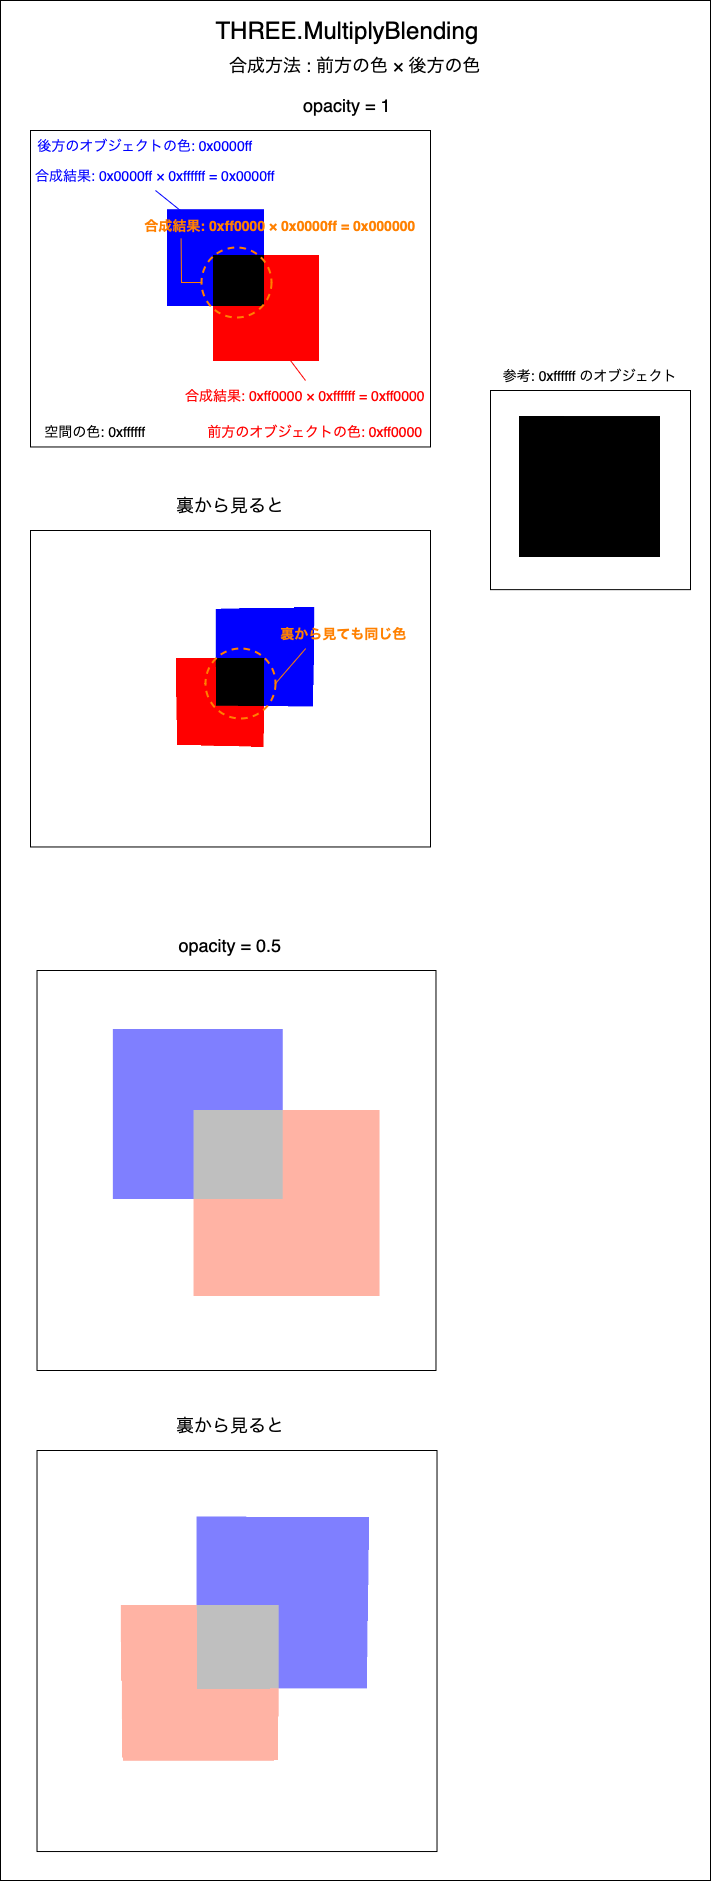
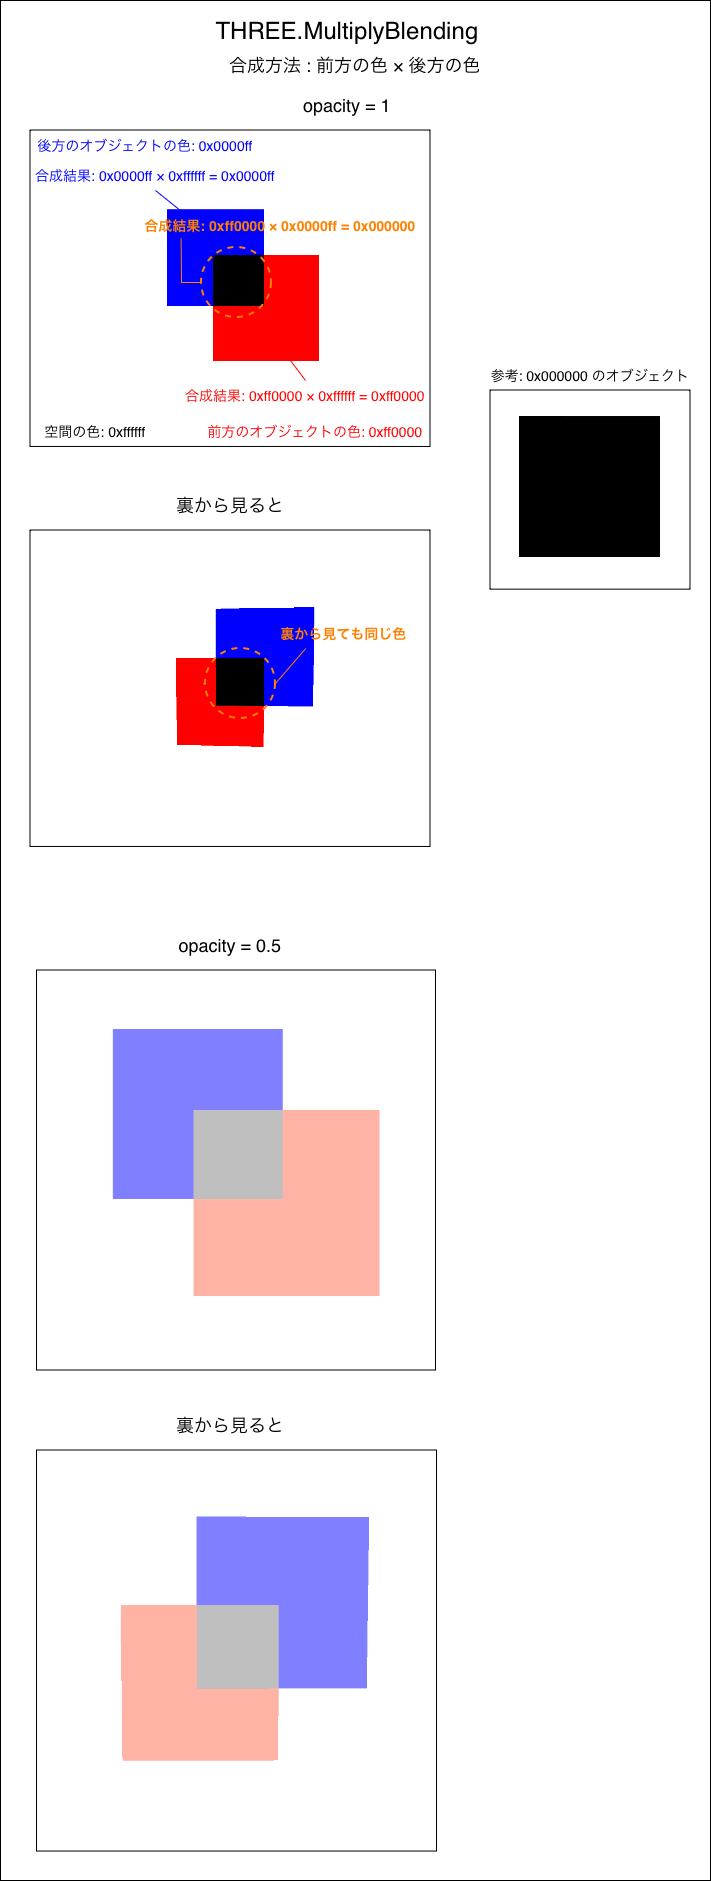
Tweak typo

diff --git a/chap2/14/Lights.md b/chap2/14/Lights.md
@@ -2,7 +2,7 @@
 
 - 3D 空間に配置する光源
 
-- PBR マテリアルなどは Light がないと見えない
+- PBR マテリアルなどは Light が無いと見えない
 
 - 様々な種類のライトが Three.js から提供されている
 
@@ -16,7 +16,7 @@
 
 - 3D空間全体に均等に光を当てるライト
 
-- 影や陰影できない
+- **影や陰影ができない**
 
 #### Ambient Light をシーンに追加する
 
@@ -223,9 +223,13 @@ directionalLight.target = target;
 
             <img src="./img/Point-Light_3.gif" />
 
-    ```js
-    const pointLight = new THREE.PointLight(0xffffff, 1, 0, 2);
-    ```
+    <br>
+
+    - サンプルライトの作成
+
+        ```js
+        const pointLight = new THREE.PointLight(0xffffff, 1, 0, 2);
+        ```
 
 <br>
 
@@ -280,9 +284,11 @@ directionalLight.target = target;
 
     <br>
 
-    ```js
-    const rectAreaLight = new THREE.RectAreaLight(0xffffff, 1, 1, 1);
-    ```
+    - サンプルライトの作成
+
+        ```js
+        const rectAreaLight = new THREE.RectAreaLight(0xffffff, 1, 1, 1);
+        ```
 
     <br>
 
@@ -435,15 +441,19 @@ RectAreaLight の向きを変える
 
         <img src="./img/Spot-Light_3.png" />
 
-    ```js
-    const spotLight = new THREE.SpotLight(
-        0x00ff00,
-        5,
-        5,
-        Math.PI * 0.1,
-        0.25,
-        1);
-    ```
+    <br>
+
+    - サンプルライトの作成
+        
+        ```js
+        const spotLight = new THREE.SpotLight(
+            0x00ff00,
+            5,
+            5,
+            Math.PI * 0.1,
+            0.25,
+            1);
+        ```
 
 <br>
 
@@ -486,7 +496,7 @@ RectAreaLight の向きを変える
 
 SpotLightHelper を使う際の注意点
 
-- SpotLightHelper インスタンスをシーンに追加以降、 spotLight の位置や向きなどを変更した場合、 SpotLightHelper インスタンスを update() で更新する必要がある
+- SpotLightHelper インスタンスをシーンに追加以降、spotLight の位置や向きなどを変更した場合、SpotLightHelper インスタンスを update() で更新する必要がある
 
     ```js
     // SpotLightHelperの更新を忘れた場合
@@ -584,7 +594,7 @@ SpotLightHelper を使う際の注意点
 
 - 基本的に Light は処理の重いオブジェクト
 
-- 処理の重さ的には、 Ambient Light などが一番軽く、 Point Light などが一番重い
+- 処理の重さ的には、Ambient Light などが一番軽く、Point Light などが一番重い
 
     Ambient Light, Hemisphere Light \< Directional Light, Point Light \< Spot Light, Rect Area Light
 

diff --git a/chap2/15/Shadows.md b/chap2/15/Shadows.md
@@ -99,7 +99,7 @@ Three.jsでは以下のライトが Drop Shadow を落とせる
 
     - [こちら](#影が落とされる仕組み--shadow-mapping)でいう手順2でレンダラーがシャドウマップを利用していることがわかる
 
-    - Rendere インスタンスのshadowMap.enabled プロパティに true を設定する
+    - Rendere インスタンスの shadowMap.enabled プロパティに true を設定する
 
     ```js
     rendere.shadowMap.enabled = true;
@@ -113,7 +113,7 @@ Three.jsでは以下のライトが Drop Shadow を落とせる
 
     <br>
 
-    - Drop Shadow を落とすオブジェクトには、 `castShadow = true` を設定する
+    - Drop Shadow を落とすオブジェクトには、`castShadow = true` を設定する
 
         ```js
         sphereObj.castShadow = true;
@@ -190,9 +190,9 @@ Three.jsでは以下のライトが Drop Shadow を落とせる
 
 - シャドウマップを作成する視点となるライトカメラを修正することで、シャドウマップの精度を上げることができる
 
-    - ライトカメラのnearがオブジェクトから遠いとシャドウマップに小さく描画される
+    - ライトカメラの near がオブジェクトから遠いとシャドウマップに小さく描画される
 
-        - シャドウマップにオブジェクトが小さく描画されると、影がテクスチャマッピングの時にチラつく = ジャぎる (理由は[こちら](../../chap1/10/Mipmap_TextureFiltering.md)を参照)
+        - シャドウマップにオブジェクトが小さく描画されると、影がテクスチャマッピングの時にチラつく = ジャぎる (理由は[こちら](https://github.com/MasaGt/threejs_journey/blob/5ceb857e86af47d63e779a05e0984879b1c680a7/chap1/10/Mipmap_TextureFiltering.md)を参照)
 
     <img src="./img/Optimizing-Shadows_3.png" />
 
@@ -294,6 +294,7 @@ Three.jsでは以下のライトが Drop Shadow を落とせる
     ```js
     // Light camera Debug
     const cameraDebug = gui.addFolder("Light Camera");
+    // Light cameraと camera helperを更新する関数
     const updateLightCamera = () => {
     directionalLight.shadow.camera.updateProjectionMatrix();
     cameraHelper.update();

diff --git a/chap2/15/SpotLigh.md b/chap2/15/SpotLigh.md
@@ -42,7 +42,7 @@
     
     以下の比較をしてみる
 
-    - SpotLightHelperを使って可視化する Spot Light の範囲
+    - SpotLightHelper を使って可視化する Spot Light の範囲
 
     - CameraHelper を使って可視化する Spot Light のライトカメラの範囲
 
@@ -55,7 +55,6 @@
     // Spot Light の可視化
     const spotLightHelper = new THREE.SpotLightHelper(spotLight, 0x00ff00);
     scene.add(spotLightHelper);
-
 
     // Spot Light のライトカメラの可視化
     const spotLightCameraHelper = new THREE.CameraHelper(spotLight.shadow.camera);
@@ -72,7 +71,7 @@
 
     - Spot Light のライトカメラの fov のデフォルトは 50°
 
-    - Spot Light の angleのデフォルトは Math.PI / 3 (= 1.047 = 120°)
+    - Spot Light の angle のデフォルトは Math.PI / 3 (= 1.047 = 120°)
 
     - ★上記ライトカメラの fov は最終的に内部(たぶんレンダラーがレンダリングする直前)で Spot Light の angle に上書かれる
         - しかし、カメラヘルパーは上書かれる前のライトカメラの fov を元にオレンジのガイド枠をシーンに描画するため、カメラヘルパーとスポットライトヘルパーで異なって見える
@@ -81,7 +80,7 @@
 
 <br>
 
-- もし、カメラヘルパーとライトヘルパーを合わせたければ SpotLight インスタンスの `shadow.updateupdateMatrices()` に SpotLightインスタンスを渡せば直る
+- もし、カメラヘルパーとライトヘルパーを合わせたければ SpotLight インスタンスの `shadow.updateupdateMatrices()` に SpotLight インスタンスを渡せば直る
 
     ```js
     // Spot Light の追加
@@ -135,8 +134,8 @@
 
 <br>
 
-- Spot Light の shadow.mapSize の　width と height が設定されている場合
-    - ライトカメラの aspect は Spot Light の shadow.mapSize の　width と height の比率に固定される
+- Spot Light の shadow.mapSize の width と height が設定されている場合
+    - ライトカメラの aspect は Spot Light の shadow.mapSize の width と height の比率に固定される
 
 <br>
 <br>

diff --git a/chap2/16/Timerを使ったアニメーション.md b/chap2/16/Timerを使ったアニメーション.md
@@ -28,12 +28,14 @@
 
 - getElapsedTIme() で Timer インスタンスの作成からの経過時間を取得することができる
 
-- getDeltaTime() で 前回読んだgetDeltaTime() からの経過時間を取得することができる
+- getDeltaTime() で前回呼び出した getDeltaTime() からの経過時間を取得することができる
 
-- ★getDeltaTime() や getDeltaTime() を実行する前に Timer.update() を自前で呼ぶ必要がある
-    - Timer.update() を呼ぶことにより、 Timer インスタンスの内部の値が更新され getElapsedTime() や getDeltaTime() の値が正しく取得できるようになる
+- ★getElapsedTIme() や getDeltaTime() を実行する前に Timer.update() を自前で呼ぶ必要がある
+
+    - Timer.update() を呼ぶことにより、Timer インスタンスの内部の値が更新され getElapsedTime() や getDeltaTime() の値が正しく取得できるようになる
 
     - もし、Timer.update() を呼ばなかったら...
+    
         - Timer インスタンスの内部の値が変更されないため、 getElapsedTime() や getDeltaTime() が同じ値を返し続ける
 
 <br>
@@ -64,7 +66,7 @@ animate();
 
 - Timer はタブが非アクティブの時に止まるらしい
 
-- 一方で　Clock はタブが非アクティブの時でも止まらないらしい
+- 一方で Clock はタブが非アクティブの時でも止まらないらしい
 
 - よって、ユーザーがアニメーションの途中でタブを非アクティブにし、しばらく経ってから戻ってきたらアニメーションがめっちゃ進んでたり、終わってたりする状況が Clock では起きる可能性がある
 
@@ -77,6 +79,7 @@ animate();
  * Animate
  */
 const clock = new THREE.Clock();
+const timer = new THREE.Timer();
 
 const tick = () => {
 

diff --git a/chap2/16/墓場の配置.md b/chap2/16/墓場の配置.md
@@ -8,7 +8,7 @@
 
 ### 同心円上に配置するには
 
-- 墓場オブジェクトのxはzのポジションをsin, 残りのポジションをcosで設定すればいい
+- 墓場オブジェクトのxのポジションをsin, 残りのポジション(z)をcosで設定すればいい
 
     ```js
     /**
@@ -20,16 +20,20 @@
     
     // 単位円上に配置
     grave.position.x = Math.sin(theta);
-    grave.position.y = Math.cos(theta);
+    grave.position.z = Math.cos(theta);
 
     //↑はこのコードでもいい
     grave.position.x = Math.cos(theta);
-    grave.position.y = Math.sin(theta);
+    grave.position.z = Math.sin(theta);
     ```
 
-<img src="./img/Sin-Cos_1.gif" />
+    <br>
 
-引用: [Sine and cosine](https://en.wikipedia.org/wiki/Sine_and_cosine)
+- 下の緑の円がオブジェクトの取りうるポジション
+
+    <img src="./img/Sin-Cos_1.gif" />
+
+    引用: [Sine and cosine](https://en.wikipedia.org/wiki/Sine_and_cosine)
 
 ---
 
@@ -41,7 +45,7 @@
 
 - 上記の画像から、下のような勘違いをしてしまった
     - xの取りうる値の範囲は -7 \< x \< -3 または 3 \< x \< 7
-    - zの取りうる値の範囲は -7 \< x \< -3 または 3 \< x \< 7
+    - zの取りうる値の範囲は -7 \< z \< -3 または 3 \< z \< 7
 
 - -3 \<= x \<= 3 の場合も -3 \<= z \<= 3 の場合も全然あり得る
 

diff --git a/chap2/17/Particleのアニメーション.md b/chap2/17/Particleのアニメーション.md
@@ -129,12 +129,12 @@ scene.add(particle);
             // attributes.position の y座標要素のインデックス
             const yIndex = i * 3 + 1;
 
-            // attributes.position の y座標要素の値
+            // attributes.position の x座標要素の値
             const xPosition = particlesGeometry.attributes.position.array[i * 3];
 
-            // 各パーティクルのy座標を変更
+            // 各パーティクルのy座標を変更 (x座標を計算に加えることで、それぞれのパーティクルの位置から波状に動いているように見える)
             particlesGeometry.attributes.position.array[yIndex] = Math.sin(
-              elapsedTime * 0.8 + xPosition
+              elapsedTime * 0.8 + xPosition //もしｘPositionを足さない場合、すべてのパーティクルが同じyポジションで動く
             );
           }
 

diff --git a/chap2/19/カメラの移動にeasingをかける.md b/chap2/19/カメラの移動にeasingをかける.md
@@ -124,7 +124,7 @@ const tick = () => {
    *  ★スクロールに合わせてカメラを移動する (easing)
    */
   // 到達地点の計算
-  let targetPosition = -(window.scrollY / sizes.height) * objectDistance;
+  let targetPosition = -(window.scrollY / window.innerHeight) * objectDistance;
 
   // ★★距離の計算
   let distance = targetPosition - camera.position.y;
@@ -187,7 +187,7 @@ tick();
      *  ★スクロールに合わせてカメラを移動する (easing)
      */
     // 到達地点の計算
-    let targetPosition = -(window.scrollY / sizes.height) * objectDistance;
+    let targetPosition = -(window.scrollY / window.innerHeight) * objectDistance;
 
     // ★★距離の計算
     let distance = targetPosition - camera.position.y;

diff --git a/chap2/19/複数のイベントに対応してカメラを移動させる.md b/chap2/19/複数のイベントに対応してカメラを移動させる.md
@@ -8,7 +8,7 @@
 
     2. マウスの移動に合わせてカメラの X 座標 Y 座標を変更する
 
-        - 実装方法は[こちら](#マウスの移動に合わせてカメラを移動させるを参照
+        - 実装方法は[こちら](#マウスの移動に合わせてカメラを移動させるを参照)
 
 <br>
 
@@ -57,7 +57,7 @@
 
 #### 解決策
 
-- カメラの位置　(同じ座標軸) を複数回更新しない
+- カメラの位置 (同じ座標軸) を複数回更新しない
 
     - (今回はこっち) カメラを Group に入れて Group のポジションを「スクロール」か「マウスの移動」のどちらかに応じて更新するようにする
 

diff --git a/chap2/16/Fog.md b/chap2/16/Fog.md
@@ -30,7 +30,7 @@ Three.js で利用できるビルトイン霧
 
 2. シーンに Fog インスタンスを追加する
 
-    - `Scene.add()` で追加するのではなく、 `Scene.fog` に Fog インスタンスを指定する
+    - ★`Scene.add()` で追加するのではなく、 `Scene.fog` に Fog インスタンスを指定する
 
     ```js
     scnece.fog = fog;
@@ -50,7 +50,7 @@ Three.js で利用できるビルトイン霧
 
 ---
 
-### Three.js での　FogExp2 の利用方法
+### Three.js での FogExp2 の利用方法
 
 1. Three.FogExp2 クラスのインスタンスを作成する
 

diff --git a/chap2/19/スクロールに合わせてカメラを移動させる.md b/chap2/19/スクロールに合わせてカメラを移動させる.md
@@ -1,4 +1,4 @@
-### スクロールにあ合わせてカメラを移動させる
+### スクロールに合わせてカメラを移動させる
 
 - 以下の2つの方法がある
 
@@ -114,7 +114,7 @@
 
 <br>
 
-- 最終的なカメラの移動量は**符号を反転させ、Three.jsの座標系に合わせる**必要があることに注意
+- 最終的なカメラの移動量(y軸上)は**符号を反転させ、Three.jsの座標系に合わせる**必要があることに注意
 
 参考サイト
 [Three.js備忘録（５）](https://koro-koro.com/three-js-no5/)

diff --git a/chap2/15/Lightを使わず影を表現する方法.md b/chap2/15/Lightを使わず影を表現する方法.md
@@ -1,0 +1,13 @@
+### Light を使わず影を表現する方法
+
+1. 影をテクスチャにベイキングする
+
+    - [ライトをテクスチャにベイキングする](../14/Lights.md#baking)のと同じ
+
+    - テクスチャに書き込まれているので、カメラやライトの位置を変更してもテクスチャの影は動かない
+
+<br>
+
+2. 影を表現するオブジェクトを、影を落とすオブジェクトに追従させる
+
+    - 影を表現するオブジェクトはテクスチャで影を表現

diff --git a/chap2/16/影の付け方.md b/chap2/16/影の付け方.md
@@ -61,6 +61,8 @@
 
     const graveGeometry = new THREE.BoxGeometry(0.6, 0.8, 0.2);
     const graveMaterial = new THREE.MeshStandardMaterial();
+
+    //ここでgraveメッシュの作成をしている
     for (let i = 0; i < 30; i++) {
         const grave = new THREE.Mesh(graveGeometry, graveMaterial);
         // それぞれの墓石オブジェクトのポジションの調整処理など
